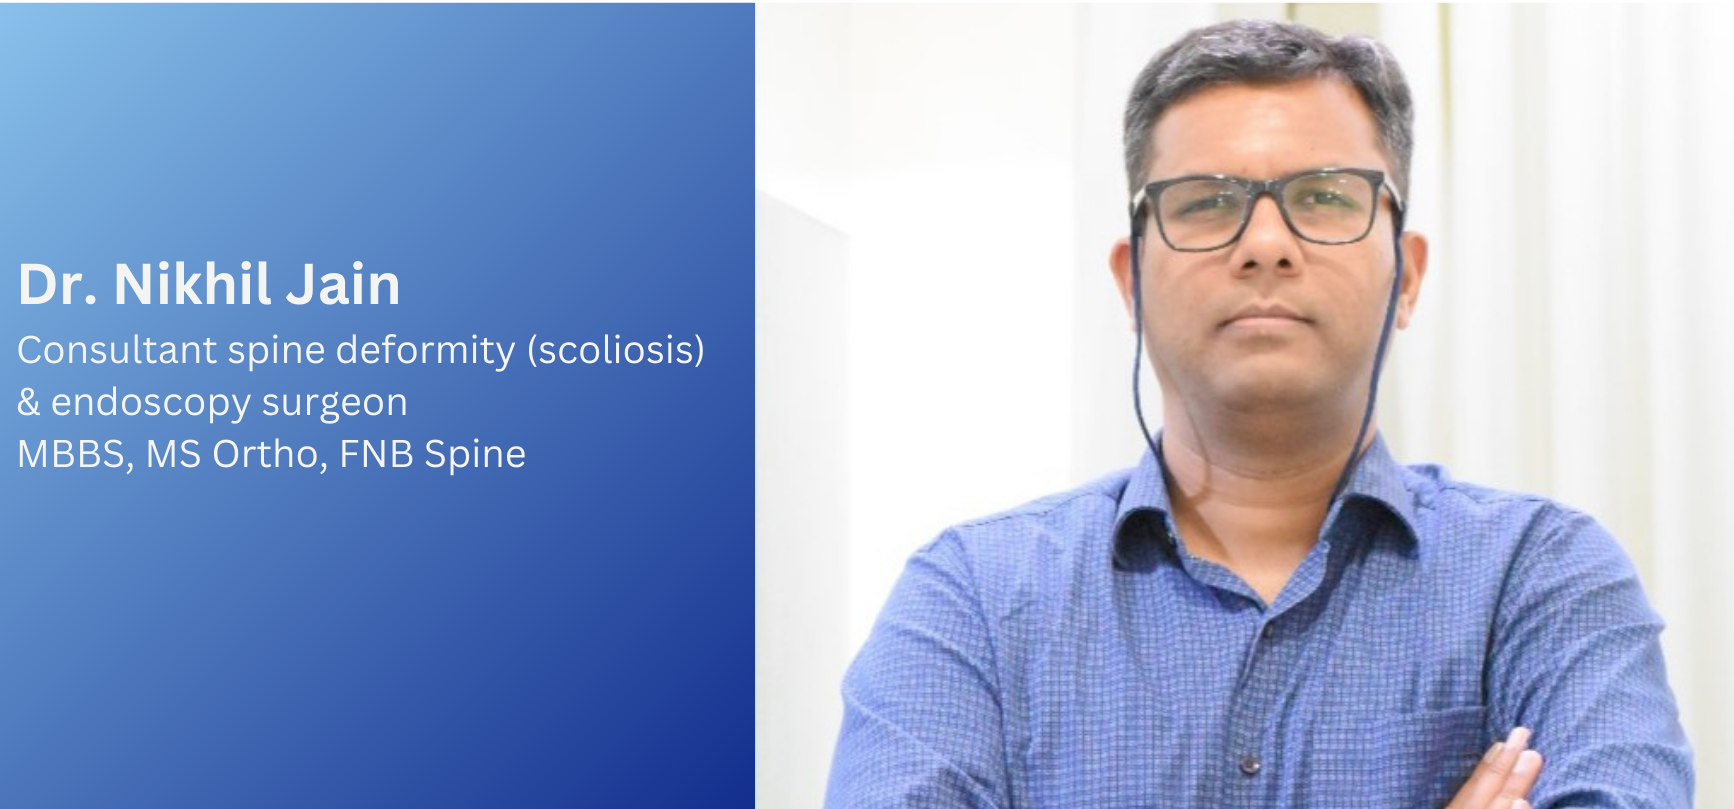
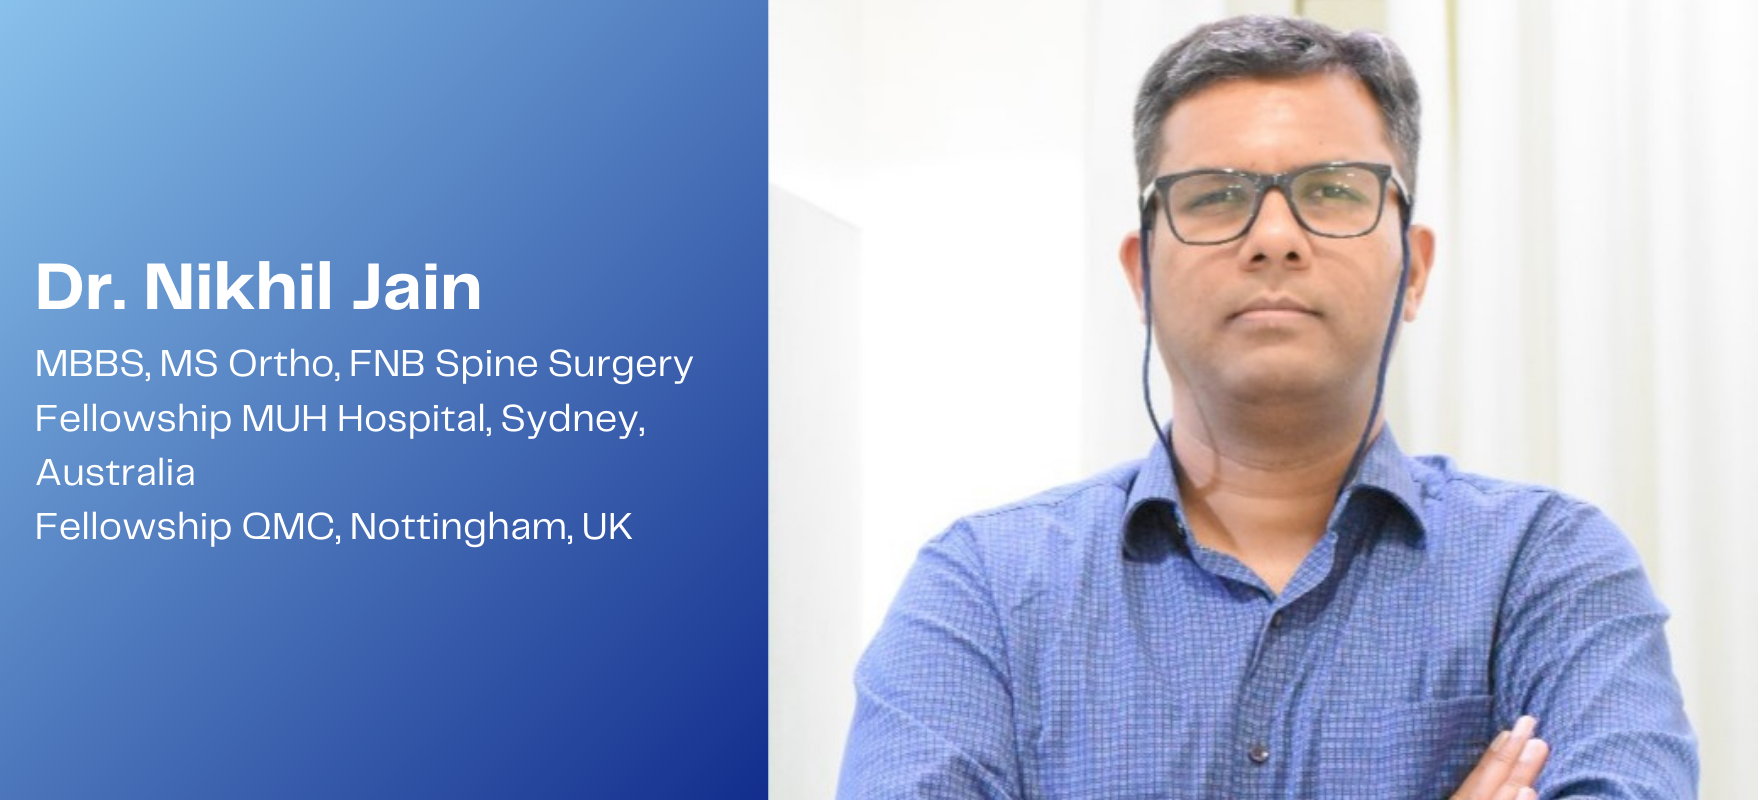
Add files via upload

Changed region(s): [[0.4983, 0.0, 0.9965, 1.0], [0.0, 0.3125, 0.4048, 0.6875], [0.0, 0.0, 0.436, 0.0312]]

diff --git a/src/components/about/aboutdrnikhil.js b/src/components/about/aboutdrnikhil.js
@@ -6,11 +6,13 @@ import 'leaflet/dist/leaflet.css';
 import icon from 'leaflet/dist/images/marker-icon.png';
 import iconShadow from 'leaflet/dist/images/marker-shadow.png';
 import '../footer/footer.css'
-import self from '../../assets/img1dn.jpeg'
+import abt1 from '../../assets/abt1.png'
 import slide1 from '../../assets/drnikhil1.jpeg'
 import slide2 from '../../assets/drnikhil11.jpeg'
-import slide3 from '../../assets/drnikhil10.jpeg'
-import slide4 from '../../assets/drnikhil7.png'
+import slide3 from '../../assets/drnikhil5.jpeg'
+import slide4 from '../../assets/drnikhil10.jpeg'
+import slide5 from '../../assets/drnikhil7.png'
+import slide6 from '../../assets/drnikhil6.jpeg'
 
 export default function AboutDrNikhil() {
   let DefaultIcon = L.icon({
@@ -25,7 +27,8 @@ export default function AboutDrNikhil() {
   return (
     <div className='main'>
       <div className="row row1">
-        <div id="carouselExampleAutoplaying" class="carousel slide" data-bs-ride="carousel" data-bs-pause="false" data-bs-interval="3000">
+        <img src={abt1} alt="abt1" />
+        {/* <div id="carouselExampleAutoplaying" class="carousel slide" data-bs-ride="carousel" data-bs-pause="false" data-bs-interval="3000">
             <div class="carousel-inner">
               <div class="carousel-item active">
                 <img src={slide1} class="d-block w-100" alt="..."/>
@@ -39,14 +42,10 @@ export default function AboutDrNikhil() {
               <div class="carousel-item">
                 <img className="img-size" src={slide4} class="d-block w-100" alt="..."/>
               </div>
-              {/* <div class="carousel-item">
-                <img className="img-size" src={slide5} class="d-block w-100" alt="..."/>
-              </div> */}
             </div>
-          </div>
+          </div> */}
       </div>
     <div className='row'>
-      <div className="col-5 mt-0 mx-auto"><img className='img-fluid' src={self} alt="drnikhil" /></div>
       <div className="col-7 imgtextalign mt-5 pe-4">
           <h1>Consultant Spine Deformity & Endoscopic Spine Surgeon</h1>
 
@@ -111,6 +110,21 @@ export default function AboutDrNikhil() {
               </ul>
             </div>
           </div>
+      </div>
+      <div className="col-4 mt-0">
+        <img src={slide1} alt="" className="img-fluid" />
+        <img src={slide2} alt="" className="img-fluid" />
+        <img src={slide3} alt="" className="img-fluid" />
+        <img src={slide4} alt="" className="img-fluid" />
+        <img src={slide5} alt="" className="img-fluid" />
+        <img src={slide6} alt="" className="img-fluid" />
+        {/* <div className='text-center mb-3 border border-2'>
+          <h1>Dr. Nikhil Jain</h1>
+          <p>
+            MBBS <br /> MS Ortho, FNB Spine Surgery <br /> Fellowship MUH Hospital, Sydney, Australi <br /> Fellowship QMC, Nottingham, UK
+            <br />
+          </p>
+        </div> */}
       </div>
     </div>
     <footer className="site-footer section-padding border-3 border-top border-danger-subtle">

diff --git a/src/components/about/aboutkhushboo.js b/src/components/about/aboutkhushboo.js
@@ -1,6 +1,6 @@
 import React from 'react'
 import './about.css'
-import self from '../../assets/image3.jpeg'
+import abt2 from '../../assets/abt2.png'
 import slide1 from '../../assets/drkhushboo1.jpeg'
 import slide2 from '../../assets/drkhushboo2.jpeg'
 import slide3 from '../../assets/drkhushboo3.jpeg'
@@ -10,7 +10,8 @@ export default function AboutDrKhushboo() {
   return (
     <div className='main'>
       <div className="row row1">
-        <div id="carouselExampleAutoplaying" class="carousel slide" data-bs-ride="carousel" data-bs-pause="false" data-bs-interval="3000">
+        <img src={abt2} alt="" />
+        {/* <div id="carouselExampleAutoplaying" class="carousel slide" data-bs-ride="carousel" data-bs-pause="false" data-bs-interval="3000">
             <div class="carousel-inner">
               <div class="carousel-item active">
                 <img src={slide1} class="d-block w-100" alt="..."/>
@@ -24,14 +25,10 @@ export default function AboutDrKhushboo() {
               <div class="carousel-item">
                 <img className="img-size" src={slide4} class="d-block w-100" alt="..."/>
               </div>
-              {/* <div class="carousel-item">
-                <img className="img-size" src={slide5} class="d-block w-100" alt="..."/>
-              </div> */}
             </div>
-          </div>
+          </div> */}
       </div>
     <div className='row'>
-      <div className="col-5 mt-0 mx-auto"><img className='img-fluid' src={self} alt="drnikhil" /></div>
       <div className="col-7 imgtextalign mt-5 pe-4">
         <h1>Consultant Psychiatrist</h1>
 
@@ -48,6 +45,12 @@ export default function AboutDrKhushboo() {
 
         <h2>Perinatal Mental Health</h2>
         <p>I have a deep focus on mental health issues during the perinatal period, which I believe to be one of the most crucial times in a family’s life. Adequate care during this phase can prevent a range of mental health challenges later in life.</p>
+      </div>
+      <div className="col-4">
+        <img className='img-fluid' src={slide1} alt="drnikhil" />
+        <img className='img-fluid' src={slide2} alt="drnikhil" />
+        <img className='img-fluid' src={slide3} alt="drnikhil" />
+        <img className='img-fluid' src={slide4} alt="drnikhil" />
       </div>
     </div>
     </div>

diff --git a/src/components/about/aboutdrrajesh.js b/src/components/about/aboutdrrajesh.js
@@ -1,6 +1,6 @@
 import React from 'react'
 import './about.css'
-import self from '../../assets/image2.jpeg'
+import abt3 from '../../assets/abt3.png'
 import slide1 from '../../assets/drrajesh1.jpeg'
 import slide2 from '../../assets/drrajesh2.jpeg'
 
@@ -8,7 +8,8 @@ export default function AboutDrRajesh() {
   return (
     <div className='main'>
       <div className="row row1">
-        <div id="carouselExampleAutoplaying" class="carousel slide" data-bs-ride="carousel" data-bs-pause="false" data-bs-interval="3000">
+        <img src={abt3} alt="" />
+        {/* <div id="carouselExampleAutoplaying" class="carousel slide" data-bs-ride="carousel" data-bs-pause="false" data-bs-interval="3000">
             <div class="carousel-inner">
               <div class="carousel-item active">
                 <img src={slide1} class="d-block w-100" alt="..."/>
@@ -17,10 +18,9 @@ export default function AboutDrRajesh() {
                 <img className="img-size" src={slide2} class="d-block w-100" alt="..."/>
               </div>
             </div>
-          </div>
+          </div> */}
       </div>
     <div className='row'>
-      <div className="col-5 mt-1 mx-auto"><img className='img-fluid' src={self} alt="drnikhil" /></div>
       <div className="col-7 imgtextalign mt-5 pe-4">
         <h1>General Physician in Paschim Vihar, Delhi</h1>
 
@@ -33,6 +33,10 @@ export default function AboutDrRajesh() {
         <p>With a longstanding presence in Paschim Vihar, Delhi, Dr. Kansal has served the local community with dedication and integrity. His empathetic approach, combined with his extensive experience, has earned him the trust and respect of his patients, many of whom have been under his care for years.</p>
 
         <p>If you're looking for a reliable general physician who can provide expert medical advice, diagnosis, and treatment, Dr. Rajesh Kansal is a trusted choice, dedicated to promoting the overall health and well-being of his patients.</p>      </div>
+      <div className="col-4">
+        <img className='img-fluid' src={slide1} alt="drrajesh" />
+        <img className='img-fluid' src={slide2} alt="drrajesh" />
+      </div>
     </div>
     </div>
   )

diff --git a/src/components/mainpage/page.js b/src/components/mainpage/page.js
@@ -89,7 +89,7 @@ export default function home() {
             <img src={pic} class="card-img-top pt-2" alt="about section 3"/>
             <div class="card-body">
               <h5 class="card-title">Dr. Nikhil Jain</h5>
-              <p class="card-text px-0">MBBS <br /> MS Ortho, FNB Spine Surgery <br /> Fellowship MUH Hospital, Sydney, Australi <br /> Fellowship QMC, Nottingham, UK</p>
+              <p class="card-text px-0">MBBS <br /> MS Ortho, FNB Spine Surgery <br /> Fellowship MUH Hospital, Sydney, Australia <br /> Fellowship QMC, Nottingham, UK</p>
               <br />
               <a href="https://www.linkedin.com/company/drnikhiljain" className="bi-linkedin socials-specific"> </a>
               <a href="https://www.youtube.com/@Dr.NikhilJain" className="bi-youtube socials-specific"> </a>
